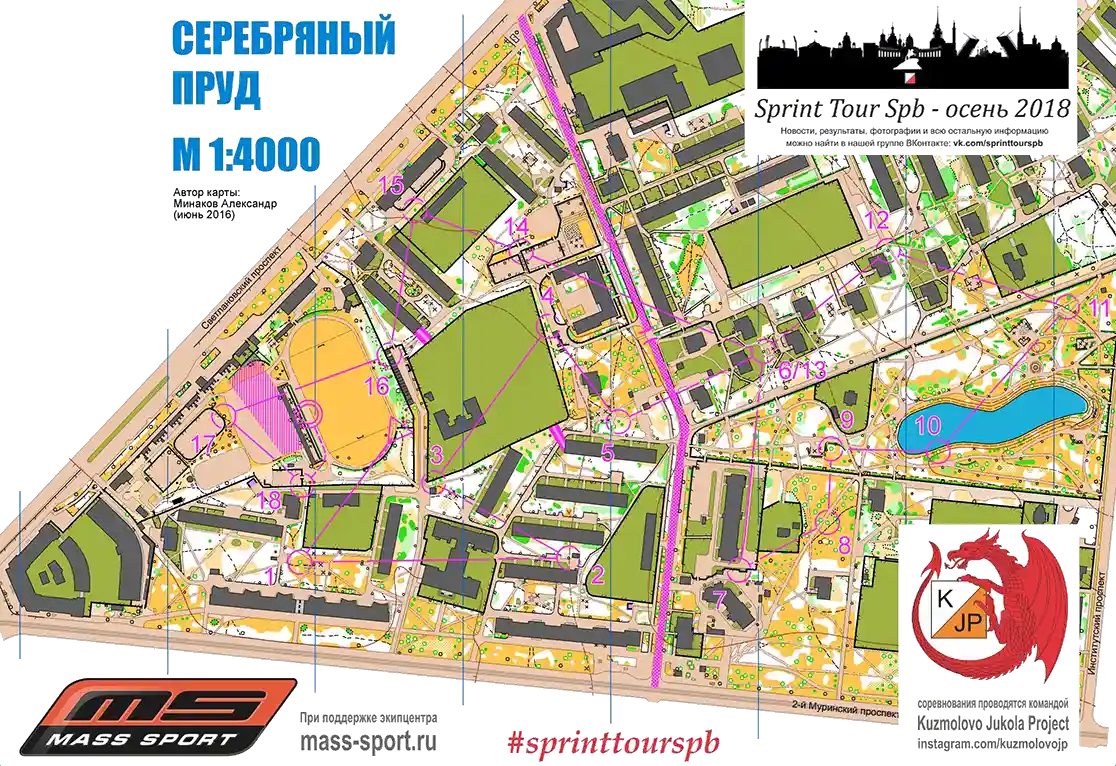
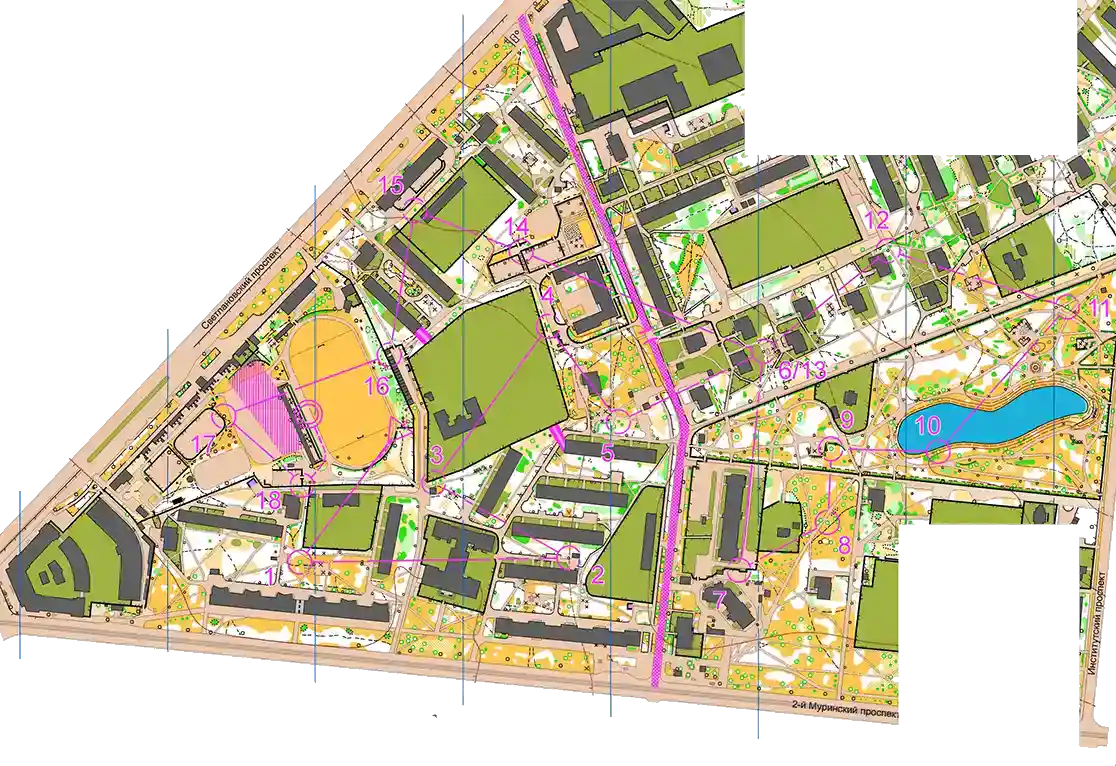
Прописываю авторов карт (в процессе) + пара спринтовых карт + немного прозрачность

diff --git a/js/maps-city.js b/js/maps-city.js
@@ -109,11 +109,30 @@ let cityMaps = [
         types: ['ORIENT', 'CITY'],
     },
     {
+        name: 'Дрезденская ул',
+        year: 2023,
+        url: './maps/city/drezdenskaya_2023.webp',
+        bounds: [[60.02193856669679, 30.326192378997806], [60.020255213808284, 30.342242717742923], [60.01505450571147, 30.323188304901127]],
+        author: 'ZCHNV',
+        owner: 'SFSO_SPB',
+        types: ['ORIENT', 'CITY'],
+    },
+    {
         name: 'Школа №332',
         year: 2013,
         url: './maps/city/school_332_2013.webp',
         bounds: [[59.92493652455641, 30.480773448944095], [59.92362461159104, 30.49736022949219], [59.915504652103806, 30.477318763732914]],
+        author: 'MNKV',
         owner: 'SHEIN',
+        types: ['ORIENT', 'CITY'],
+    },
+    {
+        name: 'Школа №332',
+        year: 2021,
+        url: './maps/city/school_332_2021.webp',
+        bounds: [[59.92489351183903, 30.481460094451908], [59.923603104388974, 30.495793819427494], [59.91602094707937, 30.478541851043705]],
+        author: ['MNKV','MSLVA'],
+        owner: ['SHEIN','KUZM'],
         types: ['ORIENT', 'CITY'],
     },
     {
@@ -129,7 +148,7 @@ let cityMaps = [
         year: 2014,
         url: './maps/city/school_175_2014.webp',
         bounds: [[60.040503369230905, 30.421657562255863], [60.03946393028264, 30.434081554412845], [60.03411619638205, 30.419554710388187]],
-        author: 'SHRNN',
+        author: ['MSPN','SHRNN'],
         owner: 'SHEIN',
         types: ['ORIENT', 'CITY'],
     },
@@ -171,6 +190,7 @@ let cityMaps = [
         year: 2015,
         url: './maps/city/udelnaya_2015.webp',
         bounds: [[60.01803563023218, 30.314669609069828], [60.0163199079499, 30.33213615417481], [60.00377098206522, 30.310378074646]],
+        author: 'DBRTSV_V',
         owner: 'SHEIN',
         types: ['ORIENT', 'CITY'],
     },
@@ -179,6 +199,7 @@ let cityMaps = [
         year: 2015,
         url: './maps/city/lomonosovskaya_2015.webp',
         bounds: [[59.88062540310008, 30.434575080871586], [59.87946248953721, 30.452041625976566], [59.87041621736219, 30.43019771575928]],
+        author: 'MNKV',
         owner: 'KUZM',
         types: ['ORIENT', 'CITY'],
     },
@@ -205,14 +226,16 @@ let cityMaps = [
         year: 2022,
         url: './maps/city/novocherkasskaya_2020.webp',
         bounds: [[59.92931277708212, 30.401487350463867], [59.92768922249184, 30.42137861251831], [59.922258876596885, 30.39897680282593]],
+        author: 'DBRTSV_V',
         owner: 'KUZM',
         types: ['ORIENT', 'CITY'],
     },
     {
-        name: 'Оккервиль"',
+        name: 'Оккервиль',
         year: 2024,
         url: './maps/city/okkervil_2024.webp',
         bounds: [[59.93202210846225, 30.417537689208988], [59.931914599528554, 30.434296131134037], [59.92530213040293, 30.417301654815677]],
+        author: 'RDNV_B',
         owner: 'KUZM',
         types: ['ORIENT', 'CITY'],
     },
@@ -245,6 +268,7 @@ let cityMaps = [
         year: 2013,
         url: './maps/city/ozerki_2013.webp',
         bounds: [[60.04519651093916, 30.315742492675785], [60.044307222520395, 30.32911062240601], [60.0348664317041, 30.31188011169434]],
+        author: 'MNKV',
         owner: 'SHEIN',
         types: ['ORIENT', 'CITY'],
     },
@@ -253,6 +277,7 @@ let cityMaps = [
         year: 2014,
         url: './maps/city/smolenka_2014.webp',
         bounds: [[59.94990674255339, 30.21566390991211], [59.94840239738082, 30.23317337036133], [59.94029925002984, 30.212059020996097]],
+        author: 'MNKV',
         owner: 'SHEIN',
         types: ['ORIENT', 'CITY'],
     },
@@ -265,10 +290,20 @@ let cityMaps = [
         types: ['ORIENT', 'CITY'],
     },
     {
+        name: 'Покровский о-в',
+        year: 2022,
+        url: './maps/city/pokrovsky_island_2022.webp',
+        bounds: [[59.92167815334707, 30.281796455383304], [59.921656644883385, 30.29967069625855], [59.91620379962411, 30.281732082366947]],
+        author: 'GRBTNKV',
+        owner: 'WN',
+        types: ['ORIENT', 'CITY'],
+    },
+    {
         name: 'Коломенский о-в',
         year: 2016,
         url: './maps/city/kolomensky_island_2016.webp',
         bounds: [[59.92428057455758, 30.27720451354981], [59.92340953894306, 30.28814792633057], [59.91696746701024, 30.27417898178101]],
+        author: 'MNKV',
         owner: 'SHEIN',
         types: ['ORIENT', 'CITY'],
     },
@@ -277,6 +312,7 @@ let cityMaps = [
         year: 2016,
         url: './maps/city/ljubashinsky_sad_2016.webp',
         bounds: [[59.971733552646455, 30.395371913909916], [59.97026241363188, 30.41146516799927], [59.96472089467718, 30.392646789550785]],
+        author: 'DBRTSV_V',
         owner: 'SHEIN',
         types: ['ORIENT', 'CITY'],
     },
@@ -295,6 +331,7 @@ let cityMaps = [
         year: 2016,
         url: './maps/city/serebrjany_prud_2016.webp',
         bounds: [[60.010839723528704, 30.3408694267273], [60.00955266005702, 30.35509586334229], [60.00153956329607, 30.337908267974857]],
+        author: 'MNKV',
         owner: 'SHEIN',
         types: ['ORIENT', 'CITY'],
     },
@@ -303,6 +340,7 @@ let cityMaps = [
         year: 2024,
         url: './maps/city/serebrjany_prud_2024.webp',
         bounds: [[60.0105930402441, 30.342135429382328], [60.00915580538176, 30.356404781341556], [60.00063837073503, 30.33831596374512]],
+        author: ['MNKV','KZNTSV_A'],
         owner: 'SFSO_SPB',
         types: ['ORIENT', 'CITY'],
     },
@@ -311,6 +349,7 @@ let cityMaps = [
         year: 2018,
         url: './maps/city/serebrjany_prud_2018.webp',
         bounds: [[60.00894128735802, 30.330033302307132], [60.007267999011475, 30.350718498229984], [60.001904324733495, 30.32835960388184]],
+        author: 'MNKV',
         owner: 'KUZM',
         types: ['ORIENT', 'CITY'],
     },
@@ -319,6 +358,7 @@ let cityMaps = [
         year: 2017,
         url: './maps/city/vyborgsky_ddjut_2017.webp',
         bounds: [[60.03973183004802, 30.34361600875855], [60.03986042116352, 30.356683731079105], [60.030986459538205, 30.34320831298828]],
+        author: 'SRBRNTSKY',
         owner: 'SHEIN',
         types: ['ORIENT', 'CITY'],
     },
@@ -351,6 +391,7 @@ let cityMaps = [
         year: 2013,
         url: './maps/city/kosmonavtov_2013.webp',
         bounds: [[59.865385856119765, 30.348358154296875], [59.86585984125349, 30.359086990356445], [59.85591551036147, 30.349946022033695]],
+        author: ['FDRV_L','SHEIN'],
         owner: 'KUZM',
         types: ['ORIENT', 'CITY'],
     },
@@ -367,6 +408,7 @@ let cityMaps = [
         year: 2021,
         url: './maps/city/litejny_2021.webp',
         bounds: [[59.9482627047221, 30.336771011352543], [59.948327178330025, 30.34878730773926], [59.93826777930315, 30.33655643463135]],
+        author: 'GRBTNKV',
         owner: 'WN',
         types: ['ORIENT', 'CITY'],
     },
@@ -416,6 +458,7 @@ let cityMaps = [
         year: 2016,
         url: './maps/city/petrogradskaya_2016.webp',
         bounds: [[59.969403324131434, 30.294585227966312], [59.96777099268824, 30.31286716461182], [59.958512433344985, 30.290594100952152]],
+        author: 'DBRTSV_V',
         owner: 'SHEIN',
         types: ['ORIENT', 'CITY'],
     },
@@ -442,6 +485,7 @@ let cityMaps = [
         year: 2022,
         url: './maps/city/matveevsky_sad_2022.webp',
         bounds: [[59.964538309478776, 30.307030677795414], [59.964463127045754, 30.31773805618286], [59.95868430952346, 30.306987762451175]],
+        author: 'GRBTNKV',
         owner: 'WN',
         types: ['ORIENT', 'CITY'],
     },
@@ -528,14 +572,16 @@ let cityMaps = [
         year: 2019,
         url: './maps/city/litsey_179_2019.webp',
         bounds: [[60.04643933173566, 30.41303157806397], [60.04556079084643, 30.427365303039554], [60.03634541714789, 30.409684181213382]],
+        author: ['MSPN','SMV'],
         owner: 'KUZM',
         types: ['ORIENT', 'CITY'],
     },
     {
         name: 'Дибуновская ул',
-        year: 2022,
+        year: 2021,
         url: './maps/city/dibunovskaya_2022.webp',
         bounds: [[59.98930699819738, 30.271260738372806], [59.987927868402906, 30.2863883972168], [59.98401554936793, 30.269372463226322]],
+        author: 'DBRTSV_V',
         owner: 'KUZM',
         types: ['ORIENT', 'CITY'],
     },
@@ -544,6 +590,7 @@ let cityMaps = [
         year: 2023,
         url: './maps/city/zhaka_djuklo_2023.webp',
         bounds: [[60.01458264841114, 30.345954895019535], [60.012298334901786, 30.36578178405762], [60.00745034864706, 30.343229770660404]],
+        author: 'CHGRVSKY_Y',
         owner: 'KUZM',
         types: ['ORIENT', 'CITY'],
     },
@@ -560,6 +607,7 @@ let cityMaps = [
         year: 2022,
         url: './maps/city/litsey_95_2022.webp',
         bounds: [[60.011933688090885, 30.403869152069095], [60.009788625443875, 30.424318313598636], [60.00476863502597, 30.40097236633301]],
+        author: 'SRBRNTSKY',
         owner: 'KUZM',
         types: ['ORIENT', 'CITY'],
     },
@@ -577,6 +625,7 @@ let cityMaps = [
         year: 2021,
         url: './maps/city/matrosa_zheleznjaka_2021.webp',
         bounds: [[60.00045598353898, 30.308468341827396], [59.99779516186407, 30.31932592391968], [59.9923441008481, 30.301001071929935]],
+        author: 'CHGRVSKY_M',
         owner: 'KUZM',
         types: ['ORIENT', 'CITY'],
     },
@@ -591,10 +640,11 @@ let cityMaps = [
         types: ['ORIENT', 'CITY'],
     },
     {
-        name: 'ул Есенина"',
+        name: 'ул Есенина',
         year: 2021,
         url: './maps/city/esenina_2021.webp',
         bounds: [[60.044703655255994, 30.32363891601563], [60.0436429191586, 30.33730745315552], [60.034652080493586, 30.32011985778809]],
+        author: ['SRBRNTSKY','RDNV_B'],
         owner: 'KUZM',
         types: ['ORIENT', 'CITY'],
     },
@@ -603,6 +653,7 @@ let cityMaps = [
         year: 2022,
         url: './maps/city/omskaya_2022.webp',
         bounds: [[60.00236563490866, 30.31413316726685], [59.99944747147775, 30.32662153244019], [59.993277712432054, 30.30559301376343]],
+        author: 'CHGRVSKY_M',
         owner: 'KUZM',
         types: ['ORIENT', 'CITY'],
     },
@@ -611,6 +662,7 @@ let cityMaps = [
         year: 2024,
         url: './maps/city/school_518_2024.webp',
         bounds: [[60.05346681736092, 30.32861709594727], [60.05204215839983, 30.342135429382328], [60.043557201622335, 30.324368476867676]],
+        author: 'SVCHK',
         owner: 'KUZM',
         types: ['ORIENT', 'CITY'],
     },
@@ -619,6 +671,7 @@ let cityMaps = [
         year: 2023,
         url: './maps/city/school_532_2023.webp',
         bounds: [[59.960918618714096, 30.420928001403812], [59.95892063781316, 30.439810752868656], [59.954333419413786, 30.41800975799561]],
+        author: 'RDNV_B',
         owner: 'KUZM',
         types: ['ORIENT', 'CITY'],
     },
@@ -627,6 +680,7 @@ let cityMaps = [
         year: 2019,
         url: './maps/city/school_535_2019.webp',
         bounds: [[60.018914903388506, 30.41270971298218], [60.01864683478263, 30.433416366577152], [60.01177281321938, 30.4127311706543]],
+        author: 'SRBRNTSKY',
         owner: 'KUZM',
         types: ['ORIENT', 'CITY'],
     },
@@ -635,6 +689,7 @@ let cityMaps = [
         year: 2023,
         url: './maps/city/sad_zhoresa_alferova_2023.webp',
         bounds: [[60.006302601835436, 30.42150735855103], [60.004940271210984, 30.44169902801514], [59.999404555388885, 30.41974782943726]],
+        author: 'DBRTSV_V',
         owner: 'KUZM',
         types: ['ORIENT', 'CITY'],
     },
@@ -652,6 +707,7 @@ let cityMaps = [
         year: 2021,
         url: './maps/city/chkalovskaya_2021.webp',
         bounds: [[59.96962883728231, 30.28810501098633], [59.96869455851803, 30.29864072799683], [59.96200349335379, 30.28542280197144]],
+        author: 'SRBRNTSKY',
         owner: 'KUZM',
         types: ['ORIENT', 'CITY'],
     },
@@ -660,6 +716,7 @@ let cityMaps = [
         year: 2023,
         url: './maps/city/sestroretskaya_2023.webp',
         bounds: [[59.98958067081682, 30.284564495086673], [59.98846986790074, 30.296956300735477], [59.98436977012997, 30.28264403343201]],
+        author: 'DBRTSV_V',
         owner: 'KUZM',
         types: ['ORIENT', 'CITY'],
     },
@@ -677,6 +734,7 @@ let cityMaps = [
         year: 2022,
         url: './maps/city/martynovsky_skver_2022.webp',
         bounds: [[60.02540150078545, 30.24973869323731], [60.02556230934125, 30.263879299163822], [60.01974054103504, 30.2499532699585]],
+        author: ['BLV_V','MSKV'],
         owner: 'MSKV',
         types: ['ORIENT', 'CITY'],
     },
@@ -685,6 +743,7 @@ let cityMaps = [
         year: 2023,
         url: './maps/city/school_515_2023.webp',
         bounds: [[59.94797257193447, 30.414297580718998], [59.9469087299875, 30.422902107238773], [59.94273900011142, 30.41150808334351]],
+        author: ['RDNV_B','RDNV_I'],
         types: ['ORIENT', 'CITY'],
     },
     {
@@ -700,6 +759,7 @@ let cityMaps = [
         year: 2022,
         url: './maps/city/new_sertolovo_2022.webp',
         bounds: [[60.169812935994486, 30.18354177474976], [60.16785958842209, 30.203347206115726], [60.16315186383203, 30.180580615997318]],
+        author: 'SVCHK',
         types: ['ORIENT', 'CITY'],
         owner: 'SVCHK',
     },
@@ -732,6 +792,7 @@ let cityMaps = [
         year: 2022,
         url: './maps/city/pushkin_school_552_2022.webp',
         bounds: [[59.73977941020801, 30.39522171020508], [59.73753020492948, 30.41466236114502], [59.73291237178019, 30.39204597473145]],
+        author: 'ZCHNV',
         owner: 'SFSO_SPB',
         types: ['ORIENT', 'CITY'],
     },
@@ -837,6 +898,7 @@ let cityMaps = [
         year: 2024,
         url: './maps/city/lesnaya_kantemirovskaya_2024.webp',
         bounds: [[59.98668821242252, 30.342907905578617], [59.985668547160444, 30.355975627899173], [59.978089840039104, 30.340011119842533]],
+        author: 'GRBTNKV',
         owner: 'WN',
         types: ['ORIENT', 'CITY'],
     },
@@ -845,6 +907,7 @@ let cityMaps = [
         year: 2021,
         url: './maps/city/sjezzhinskaja_2021.webp',
         bounds: [[59.95776046458139, 30.296216011047367], [59.95777120711246, 30.308318138122562], [59.949251286263994, 30.296237468719486]],
+        author: 'GRBTNKV',
         owner: 'WN',
         types: ['ORIENT', 'CITY'],
     },
@@ -853,6 +916,7 @@ let cityMaps = [
         year: 2020,
         url: './maps/city/sjezzhinskaja_2020.webp',
         bounds: [[59.95693327923127, 30.29640913009644], [59.956922536428564, 30.306236743927006], [59.951636655101844, 30.29653787612915]],
+        author: 'GRBTNKV',
         owner: 'WN',
         types: ['ORIENT', 'CITY'],
     },
@@ -861,6 +925,7 @@ let cityMaps = [
         year: 2024,
         url: './maps/city/nevskaya_ratusha_2024.webp',
         bounds: [[59.93989081617548, 30.370223522186283], [59.93995530606588, 30.38676738739014], [59.93329068756564, 30.370395183563236]],
+        author: 'GRBTNKV',
         owner: 'WN',
         types: ['ORIENT', 'CITY'],
     },

diff --git a/js/authors.js b/js/authors.js
@@ -14,6 +14,7 @@ let authors = {
         name: 'Бондаренко Игорь',
         about: 'https://o-site.spb.ru/history/Peoples/280.html'
     },
+    BLV_V: { name: 'Белов В.' },
     BLZRV_V: {
         name: 'Белозеров Владимир Николаевич',
         about: 'https://o-site.spb.ru/history/Peoples/vnb.html'
@@ -133,6 +134,9 @@ let authors = {
     MRSKA_I: { name: 'Мурская Эльза' },
     MRSKY_S: { name: 'Мурский Сергей' },
     MRVNK_D: { name: 'Муравник Дмитрий' },
+    MSLVA: { name: 'Маслова Евгения' },
+    MSKV: { name: 'Москов Игорь' },
+    MSPN: { name: 'Мосьпан Олеся' },
     MTRNCHV: { name: 'Матреничев Вячеслав' },
     NGN: { name: 'Негин С.' },
     NSNV: { name: 'Несынов Сергей' },
@@ -165,6 +169,7 @@ let authors = {
         name: 'Швер Евгений',
         about: 'https://o-site.spb.ru/history/Peoples/280.html'
     },
+    SMV: { name: 'Сомов Никита' },
     SRBRNTSKY: {
         name: 'Серебряницкий Константин',
         about: 'https://andybary.com/tver-map'
@@ -176,6 +181,7 @@ let authors = {
         name: 'Строганов Илья',
         about: 'https://adventure-race.redfox.ru/archive/archive_2020/news/v_komande_red_fox_adventure_race_popolnenie/'
     },
+    SVCHK: { name: 'Роман Сивачук' },
     SVTKN: {
         name: 'Святкин  Михаил',
         about: 'https://o-site.spb.ru/history/Peoples/svyatkin.html'

diff --git a/js/maps-forest.js b/js/maps-forest.js
@@ -133,6 +133,7 @@ let forestMaps = [
         year: 2023,
         url: './maps/forest/new_sertolovo_2023.webp',
         bounds: [[60.16376038319639, 30.18669605255127], [60.16117676720578, 30.21471977233887], [60.153211119033074, 30.18300533294678]],
+        author: 'SVCHK',
         owner: 'SVCHK',
         types: ['ORIENT'],
     },
